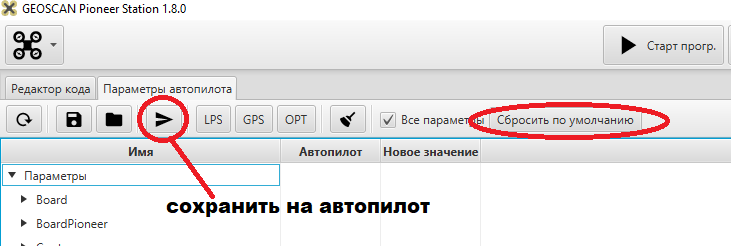
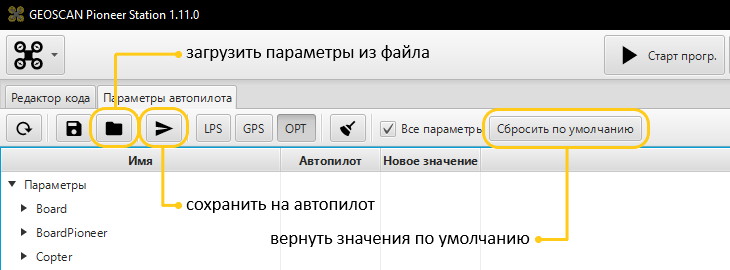
board, a bit autopilot

diff --git a/module/board.rst b/module/board.rst
@@ -1,26 +1,56 @@
 Плата подключения дополнительных модулей
 ========================================
 
-Используйте эту плату, чтобы подключать больше модулей к "Пионеру".
+Плата-адаптер используется для подключения дополнительной полезной нагрузки к «Пионеру»
 
-.. image:: /_static/images/modules_board.png
-	:align: center
+Плата крепится на нижнюю часть квадрокоптера вместо крышки отсека аккумулятора при помощи стоек и винтов М3. При установке ориентируйте плату так, чтобы стрелка находилась снизу и указывала в ту же сторону, что и стрелка на основной плате квадрокоптера.
+Сверху на плате расположены два разъема. Используйте их для подключения адаптера к плате автопилота с помощью шлейфов, идущих в комплекте. На нижней поверхности расположены два разъема для подключения модулей. Модули подключаются "насквозь" через плату.
 
-При установке ориентируйте плату так, чтобы стрелка на ней указывала в ту же сторону, что и стрелка на основной плате квадрокоптера.
-Плата крепится на нижнюю часть квадрокоптера вместо крышки отсека аккумулятора через стойки винтами М3.
+.. warning:: Обратите внимание, шлейфы подключения имеют разное количество пинов (10 и 12). Убедитесь, что Вы подключаете шлейф в соответствующий разъём!
 
-Сверху на плате расположены два разъема. Используйте их, чтобы подключать шлейфы, идущие от базовой платы. На нижней поверхности - два разъема для подключения модулей. Модули подключаются "насквозь" через плату.
+Плата адаптер 4.0
+~~~~~~~~~~~~~~~~~
+
+.. image:: /_static/images/modules_board_v4.png
+    :align: center
+
+**Особенности версии 4.0:**
+
+* Встроенный модуль дальномера
+* Встроенный модуль оптического позиционирования
+* Возможность подключения камеры OpenMV
+* Разъём подключения модуля камеры для работы с FPV-комплектом
+
+Плата адаптер 2.0
+~~~~~~~~~~~~~~~~~
+
+.. image:: /_static/images/modules_board_v2.png
+    :align: center
+
+**Особенности версии 2.0:**
+
+* Встроенный модуль дальномера
+* Разъём подключения модуля камеры для работы с FPV-комплектом
+
+
  
-Также плата подключения дополнительных модулей оснащена лазерным дальномером. Он позволяет точно определять высоту над уровнем пола в пределах  0 - 1,5 м. Дальномер активируется в режиме удержания высоты. При этом "Пионер" будет сохранять одинаковое расстояние от поверхности, даже если она неровная. Пролетая над препятствием или впадиной, квадрокоптер будет менять высоту. Если закрыть датчик рукой или другим предметом, "Пионер" будет набирать высоту до тех пор, пока расстояние до препятствия не вернется к прежнему значению, или пока квадрокоптер не упрется в потолок. 
+Платы расширения оснащены лазерным дальномером. Он позволяет точно определять высоту над уровнем пола в пределах 0 - 1,5 м. Дальномер активируется в режиме удержания высоты. При этом «Пионер» будет сохранять одинаковое расстояние от поверхности, даже если она неровная. Пролетая над препятствием или впадиной, квадрокоптер будет менять высоту. Если закрыть датчик рукой или другим предметом, «Пионер» будет набирать высоту до тех пор, пока расстояние до препятствия не вернется к прежнему значению, или пока квадрокоптер не упрется в потолок.
+
+.. warning:: Перед использованием платы-адаптера убедитесь, что на модуле оптического позиционирования и дальномере нет заводской плёнки!
+
+
+Пример 1
+~~~~~~~~
 
 Данные с дальномера можно считывать и использовать для управления квадрокоптером. В качестве примера приведена программа, меняющая цвет светодиодов на "Пионере" в зависимости от расстояния до земли. Используйте Pioneer Station, чтобы  `загрузить программу`_ на "Пионер".
 
 .. note::
-	Дальномер неактивен в режиме полета по GPS. Если программа не работает, откройте вкладку "`параметры автопилота`_ " в Pioneer Station и выберите набор параметров "LPS" или "OPT". Также можно вручную поменять значение параметра BoardPioneer_modules_gnss на 0,0. 
-
+    Дальномер неактивен в режиме полета по GPS. Если программа не работает, откройте вкладку "`параметры автопилота`_ " в Pioneer Station и выберите набор параметров "LPS" или "OPT". Также можно вручную поменять значение параметра BoardPioneer_modules_gnss на 0,0.
 
 .. _загрузить программу: ../programming/pioneer_station/pioneer_station_upload.html 
 .. _параметры автопилота: ../settings/autopilot_parameters.html
+.. _OpenMV IDE: https://github.com/openmv/openmv-ide/releases/
+
 
 ::
 
@@ -61,3 +91,163 @@
     end)
     -- запускаем таймер
     timerRangeRead:start()
+
+Пример 2
+~~~~~~~~
+
+Пример демонстрирует как реализовать взаимодействие камеры OpenMV c модулем захвата груза при помощи платы подключения дополнительных модулей версии 4.0. В данном скрипте электромагнит, расположенный на модуле захвата, отпускает груз при попадании маркера в объектив камеры.
+
+Подключите программируемую камеру OpenMV и модуль захвата груза к плате подключения дополнительных модулей. Не забудьте зафиксировать оба модуля с помощью винтов и стоек.
+
+Используйте Pioneer Station, чтобы  `загрузить программу`_ на "Пионер". Для загрузки программы на камеру OpenMV воспользуйтесь `OpenMV IDE`_ предварительно скачав версию для своей OC.
+
+**Скрипт для автопилота:**
+
+::
+
+    local unpack = table.unpack -- импортируем функцию для распаковки массивов
+    local ledNumber = 4 -- количество светодиодов
+    local leds = Ledbar.new(ledNumber) -- инициализация объекта управления светодиодами
+    local height = 1 --высота полета коптера
+    local rc = Sensors.rc
+    local magneto = Gpio.new(Gpio.C, 3, Gpio.OUTPUT)
+
+    local uartNum = 4 -- номер Uart интерфейса (USART4)
+    local baudRate = 9600 -- скорость передачи данных
+    local dataBits = 8
+    local stopBits = 1
+    local parity = Uart.PARITY_NONE
+    local uart = Uart.new(uartNum, baudRate, parity, stopBits) -- создание протокола обмена
+
+    local colors = {
+            {1, 0, 0}, -- (1) красный
+            {1, 1, 1}, -- (2) белый
+            {0, 1, 0}, -- (3) зеленый
+            {1, 1, 0}, -- (4) желтый
+            {1, 0, 1}, -- (5) фиолетовый
+            {0, 0, 1}, -- (6) синий
+            {0, 0, 0}  -- (7) черный/отключение светодиодов
+    }
+
+    -- переключение цвета светодиодов
+    local function changeColor(color)
+        -- проходим в цикле по всем светодиодам с 0 по 3
+        for i=0, ledNumber - 1, 1 do
+            leds:set(i, unpack(color))
+        end
+    end 
+
+
+    -- обработка событий
+    function callback(event)
+        --if event == Ev.TAKEOFF_COMPLETE then
+        --    changeColor(colors[3]) -- зеленый
+            -- Timer.callLater(5, function () ap.push(Ev.MCE_LANDING) end)
+        --end
+        if event == Ev.COPTER_LANDED then
+            ap.push(Ev.ENGINES_DISARM)
+            changeColor(colors[7]) -- выключаем светодиоды
+        end
+    end
+
+    function getc()
+        while uart:bytesToRead() == 0 do
+        end
+        return uart:read(1)
+    end
+
+    function ord(chr, signed)
+        local specifier = "B"
+        if signed then specifier = "b" end
+        return string.unpack(specifier, chr)
+    end
+
+    function getData() -- функция приёма пакета данных
+        while true do -- ждём приёма начала пакета
+            if (ord(getc()) == 0xBB) then break end
+        end
+        local ledstate = ord(getc())
+        local dx = ord(getc(), true)
+        local dy = ord(getc(), true)
+        ord(getc()) -- принять конец пакета
+        
+        return ledstate, dx, dy
+    end
+
+
+    local takerFunction = function () -- функция для периодического чтения данных из UART
+        local ledstate, dx, dy = getData()
+        
+        if (ledstate == 0) then
+            changeColor(colors[1]) -- красный - не найден
+            magneto:set()
+        else
+            changeColor(colors[3]) -- зелёный - найден
+            magneto:reset()
+        end
+    end
+
+    markerTimer = Timer.new(0.01, function () takerFunction() end)
+    magneto:set()
+    markerTimer:start()
+
+**Скрипт для OpenMV:**
+
+:: 
+
+    import sensor, image, time, math, pyb
+    from pyb import UART, LED
+
+    sensor.reset()
+    sensor.set_pixformat(sensor.RGB565)
+    screen_w = 160
+    screen_h = 120
+    sensor.set_framesize(sensor.QQVGA)
+    sensor.skip_frames(30)
+    sensor.set_auto_gain(False)
+    sensor.set_auto_whitebal(False)
+
+    uart = UART(3)
+    uart.init(9600, bits=8, parity=None, stop=1, timeout_char=1000)
+
+
+    track_id = 3 # qr код, за которым следим, и о котором передаём информацию на квадрокоптер
+
+
+    clock = time.clock()
+
+    def sendPacket(ledState, dx, dy):
+        uart.writechar(0xBB) # packet begin byte
+        uart.writechar(ledState)
+        uart.writechar(dx.to_bytes(1, 'big')[0])
+        uart.writechar(dy.to_bytes(1, 'big')[0])
+        #uart.writechar(crc) # no crc now
+        uart.writechar(0xFF) # packet end byte
+
+    while(True):
+        clock.tick()
+        img = sensor.snapshot()
+        apriltag_array = img.find_apriltags()
+        found = False
+        if len(apriltag_array) == 0:
+            pass
+        else:
+            found = True
+            for tag in apriltag_array:
+                img.draw_rectangle(tag.rect(), color = (255, 0, 0))
+                img.draw_cross(tag.cx(), tag.cy(), color = (0, 255, 0))
+                #red_led.off()
+                #green_led.on()
+                print_args = (tag.id(), (180 * tag.rotation())/math.pi)
+                print("Tag Number", str(tag.id()))
+                dx = int(tag.cx() - screen_w/2)
+                dy = int(tag.cy() - screen_h/2)
+                print("dx=" + str(dx) + ", dy=" + str(dy))
+                #if (tag.id() == track_id):
+                    #found = True
+                    #sendPacket(1, dx, dy)
+                sendPacket(1, dx, dy)
+        if not found:
+            sendPacket(0, 0, 0) # send info, no qr code found
+    print(clock.fps())
+

diff --git a/instructions/pioneer-max/settings/autopilot_parameters.rst b/instructions/pioneer-max/settings/autopilot_parameters.rst
@@ -7,13 +7,15 @@
 
 Для настройки "Пионер" должен быть подключен к компьютеру, его текущие параметры должны отображаться в правой части окна.
 
-.. image:: /_static/images/autopilot.PNG
+.. image:: /_static/images/autopilot.png
 	:align: center
 
-Перейдите во вкладку "параметры автопилота". В первом столбце таблицы приведены названия параметров. Узнать, за что каждый из них отвечает, можно, посмотрев в крайний правый столбец. Во втором столбце отображаются текущие значения, присвоенные каждому из параметров. Если вы хотите поменять какое-либо из них, введите новое значение в столбец справа от текущего значения и нажмите Enter. 
-Завершив редактирование, не забудьте сохранить изменения, нажав кнопку **сохранить изменения на автопилот**. 
+Перейдите во вкладку "параметры автопилота". Для отображение полного списка параметров поставьте галочку в строке 'Все параметры'. В первом столбце таблицы приведены названия параметров. Узнать, за что каждый из них отвечает, можно, посмотрев в крайний правый столбец. Во втором столбце отображаются текущие значения, присвоенные каждому из параметров. Если вы хотите поменять какое-либо из них, введите новое значение в столбец справа от текущего значения и нажмите Enter. 
+Завершив редактирование, не забудьте сохранить изменения, нажав кнопку **сохранить изменения на автопилот** в виде стрелки.
+ 
+Pioneer Station позволяет сохранять параметры а также загружать их из файла. Для сохранения параметров нажмите на кнопку **сохранить в файл** и укажите путь для сохранения файла. Для загрузки параметров нажмите на кнопку **открыть из файла** в виде иконки с папкой и выберите необходимый файл. 
 
-В верхней части окна также присутствуют кнопки **LPS**, **GPS** и **OPT**. Каждая из них загружает в квадрокоптер стандартный набор параметров для полета, соответственно, в локальной системе позиционирования, с использованием модуля GPS/ГЛОНАСС и модуля оптического позиционирования. 
+Дополнительно, в верхней части окна присутствуют кнопки **LPS**, **GPS** и **OPT**. Каждая из них загружает в квадрокоптер стандартный набор параметров для полета, соответственно, в локальной системе позиционирования, с использованием модуля GPS/ГЛОНАСС и модуля оптического позиционирования. 
 
 .. note::
 	Если вы хотите вернуться к заводским настройкам, нажмите кнопку **сбросить по умолчанию** над таблицей и подождите пока "Пионер" перезапустится.
@@ -21,7 +23,7 @@
 
 
 
-.. attention:: параметры для "Пионер Макс" мы можете скачать по ссылке ниже. Для корректной работы квадрокоптера обящательно загрузите данные параметры в Автопилот квадрокоптера.
+.. attention:: параметры для "Пионер Макс" мы можете скачать по ссылке ниже. Для корректной работы квадрокоптера обязательно загрузите данные параметры в автопилот квадрокоптера.
 
 :download:`Параметры автопилота для Макса (бета-версия) newmotors-max.properties <newmotors-max.properties>`
 

diff --git a/instructions/pioneer-standart/settings/autopilot_parameters.rst b/instructions/pioneer-standart/settings/autopilot_parameters.rst
@@ -7,13 +7,15 @@
 
 Для настройки "Пионер" должен быть подключен к компьютеру, его текущие параметры должны отображаться в правой части окна.
 
-.. image:: /_static/images/autopilot.PNG
+.. image:: /_static/images/autopilot.png
 	:align: center
 
-Перейдите во вкладку "параметры автопилота". В первом столбце таблицы приведены названия параметров. Узнать, за что каждый из них отвечает, можно, посмотрев в крайний правый столбец. Во втором столбце отображаются текущие значения, присвоенные каждому из параметров. Если вы хотите поменять какое-либо из них, введите новое значение в столбец справа от текущего значения и нажмите Enter. 
-Завершив редактирование, не забудьте сохранить изменения, нажав кнопку **сохранить изменения на автопилот**. 
+Перейдите во вкладку "параметры автопилота". Для отображение полного списка параметров поставьте галочку в строке 'Все параметры'. В первом столбце таблицы приведены названия параметров. Узнать, за что каждый из них отвечает, можно, посмотрев в крайний правый столбец. Во втором столбце отображаются текущие значения, присвоенные каждому из параметров. Если вы хотите поменять какое-либо из них, введите новое значение в столбец справа от текущего значения и нажмите Enter. 
+Завершив редактирование, не забудьте сохранить изменения, нажав кнопку **сохранить изменения на автопилот** в виде стрелки.
+ 
+Pioneer Station позволяет сохранять параметры а также загружать их из файла. Для сохранения параметров нажмите на кнопку **сохранить в файл** и укажите путь для сохранения файла. Для загрузки параметров нажмите на кнопку **открыть из файла** в виде иконки с папкой и выберите необходимый файл. 
 
-В верхней части окна также присутствуют кнопки **LPS**, **GPS** и **OPT**. Каждая из них загружает в квадрокоптер стандартный набор параметров для полета, соответственно, в локальной системе позиционирования, с использованием модуля GPS/ГЛОНАСС и модуля оптического позиционирования. 
+Дополнительно, в верхней части окна присутствуют кнопки **LPS**, **GPS** и **OPT**. Каждая из них загружает в квадрокоптер стандартный набор параметров для полета, соответственно, в локальной системе позиционирования, с использованием модуля GPS/ГЛОНАСС и модуля оптического позиционирования. 
 
 .. note::
 	Если вы хотите вернуться к заводским настройкам, нажмите кнопку **сбросить по умолчанию** над таблицей и подождите пока "Пионер" перезапустится.
